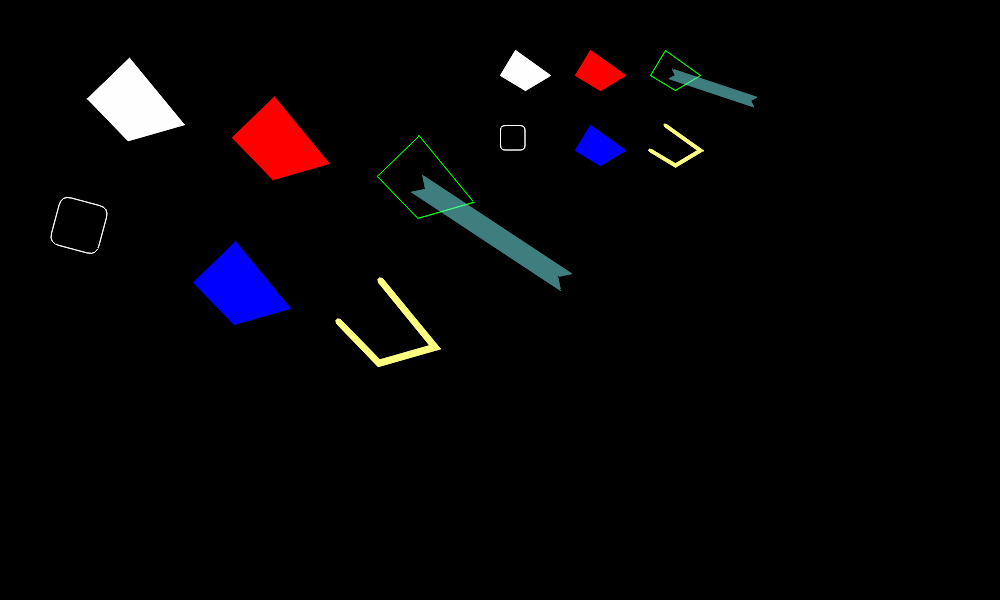
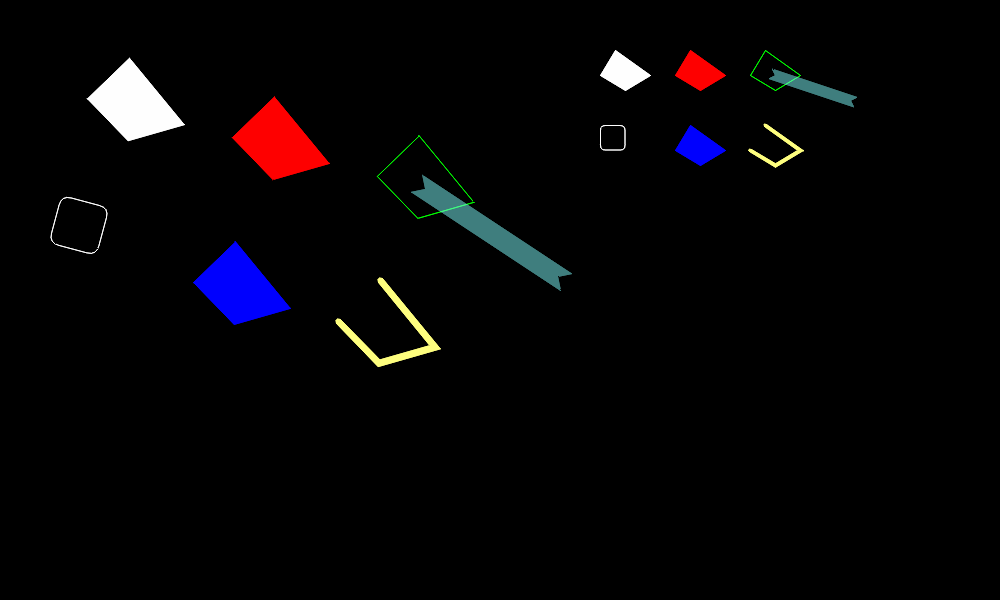
Done experimenting with new AA

diff --git a/src/Pt-Gfx/ImagePainter2_TestConfig.h b/src/Pt-Gfx/ImagePainter2_TestConfig.h
@@ -6,11 +6,29 @@
 // but reduce XWAA performance by ~10% to ~15%
 #define USE_HIRES_WITH_STANDARD_AA
 
+
 /*
-### TODO: Use fractional-pixel XWAA??? ###
-_rasterizer->strokeOnePixelQuadraticPolybezierOutline
-_rasterizer->fillEllipse
-_rasterizer->fillArc
+Try to use fractional-pixel XWAA for these:
+    _rasterizer->strokeOnePixelQuadraticPolybezierOutline ### NOT BENEFICIAL    ###
+    _rasterizer->strokeOnePixelEllipseArc                 ### CANNOT BE DONE    ###
+    _rasterizer->fillArc                                  ### SEEMS UNNECESSARY ###
+    _rasterizer->fillEllipse                              ### SEEMS UNNECESSARY ###
+
+
+
+#if defined(USE_HIRES_WITH_STANDARD_AA)
+        const bool useFloatFuncs = _rasterizer->antiAliasingMode() == AntiAliasingMode::Standard;
+#else
+        const bool useFloatFuncs = false;
+#endif
+        // Use higher precision rasterization when using AntiAliasingMode::Standard
+        if(useFloatFuncs) {
+        }
+        // Use lower precision rasterization when using other modes
+        else {
+        }
+
+
 
     // Determine whether to use the higher resolution function
 #if defined(USE_HIRES_WITH_STANDARD_AA)
@@ -29,5 +47,6 @@ _rasterizer->fillArc
     // Use lower precision rasterization when using other modes
     else {
     }
+
 */
 

diff --git a/src/Pt-Gfx/Rasterizer2.h b/src/Pt-Gfx/Rasterizer2.h
@@ -62,6 +62,7 @@
 #define FIXED_POINT_FPART_TO_A8(V)  ( FIXED_POINT_FPART (V) >> 8 )
 #define FIXED_POINT_RFPART_TO_A8(V) ( FIXED_POINT_RFPART(V) >> 8 )
 #define FIXED_POINT_MUL_TO_A8(A, B) ( ( ( (Pt::uint32_t)(A) * (Pt::uint32_t)(B) + FIXED_POINT_FRACT_BITMASK ) >> FIXED_POINT_SHIFT_FACTOR ) )
+#define FIXED_POINT_FROM_FLT(V)     ( (V) * ( (float) FIXED_POINT_CONSTANT_ONE ) )
 #define FIXED_POINT_FROM_INT(V)     ( (V) << FIXED_POINT_SHIFT_FACTOR )
 #define FIXED_POINT_TO_INT(V)       ( (V) >> FIXED_POINT_SHIFT_FACTOR )
 
@@ -80,8 +81,8 @@
 #define PATTERN_BUFFER_COUNTER_MAXMP PATTERN_BUFFER_NUM_OF_CELLS
 
 // Just for debugging ;)
-#warning "Just for debugging ;)"
-#include <stdio.h>
+//#warning "Just for debugging ;)"
+//#include <stdio.h>
 //#define lprintf(...) fprintf (stderr, __VA_ARGS__)
 
 

diff --git a/src/Pt-Gfx/tests/ImagePainterTest2_SceneGraph.cpp b/src/Pt-Gfx/tests/ImagePainterTest2_SceneGraph.cpp
@@ -60,7 +60,7 @@ static void testSceneGraph(const char* title, Image& image, Painter& painter)
 
     psgn.transform().identity();
     psgn.transform().scale(0.5f, 0.5f); // Note: the pen width is not scaled!
-    psgn.transform().translate(500, 50);
+    psgn.transform().translate(600, 50);
     psgn.draw(*ip2);
 
     sdlPreviewRGB888Buffer(title, image.data(), image.width(), image.height(), !!ip2);

diff --git a/src/Pt-Gfx/tests/ImagePainterTest2.cpp b/src/Pt-Gfx/tests/ImagePainterTest2.cpp
@@ -86,7 +86,7 @@ using namespace Pt::Gfx;
 
 // Detailed-test enable settings for Pt-Gfx
 #define TEST_SOURCECOPY                         1
-#define TEST_SOURCEOVER                         1
+#define TEST_SOURCEOVER                         0
 
 #define TEST_DRAW_SOLID_LINE_AND_TEXT           0 // (including bezier)
 #define TEST_DRAW_PATTERNED_LINE                0 // (including bezier)
